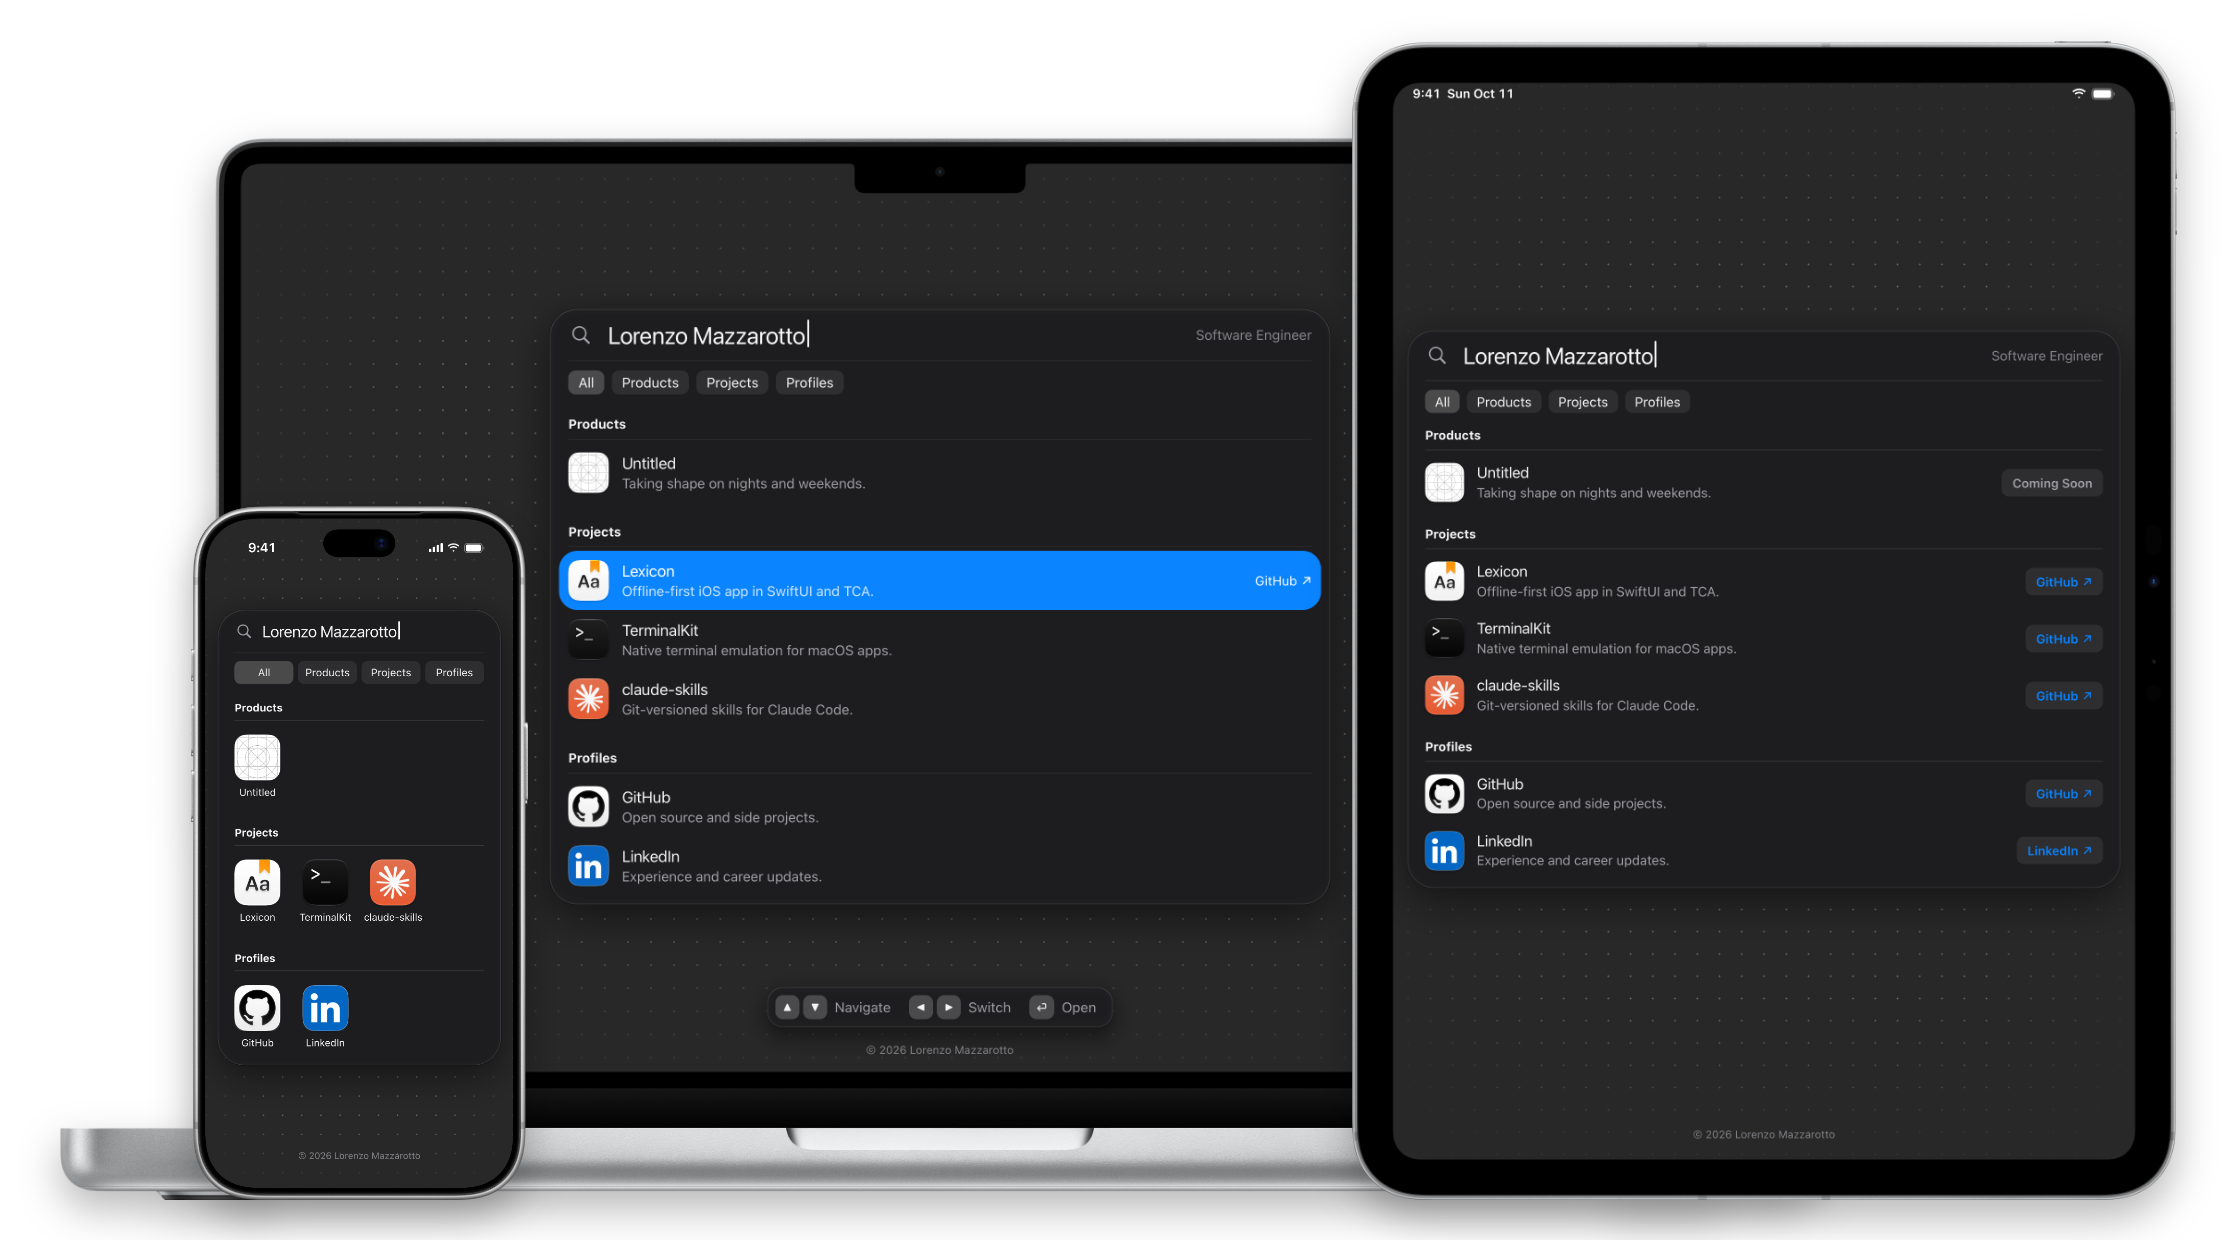
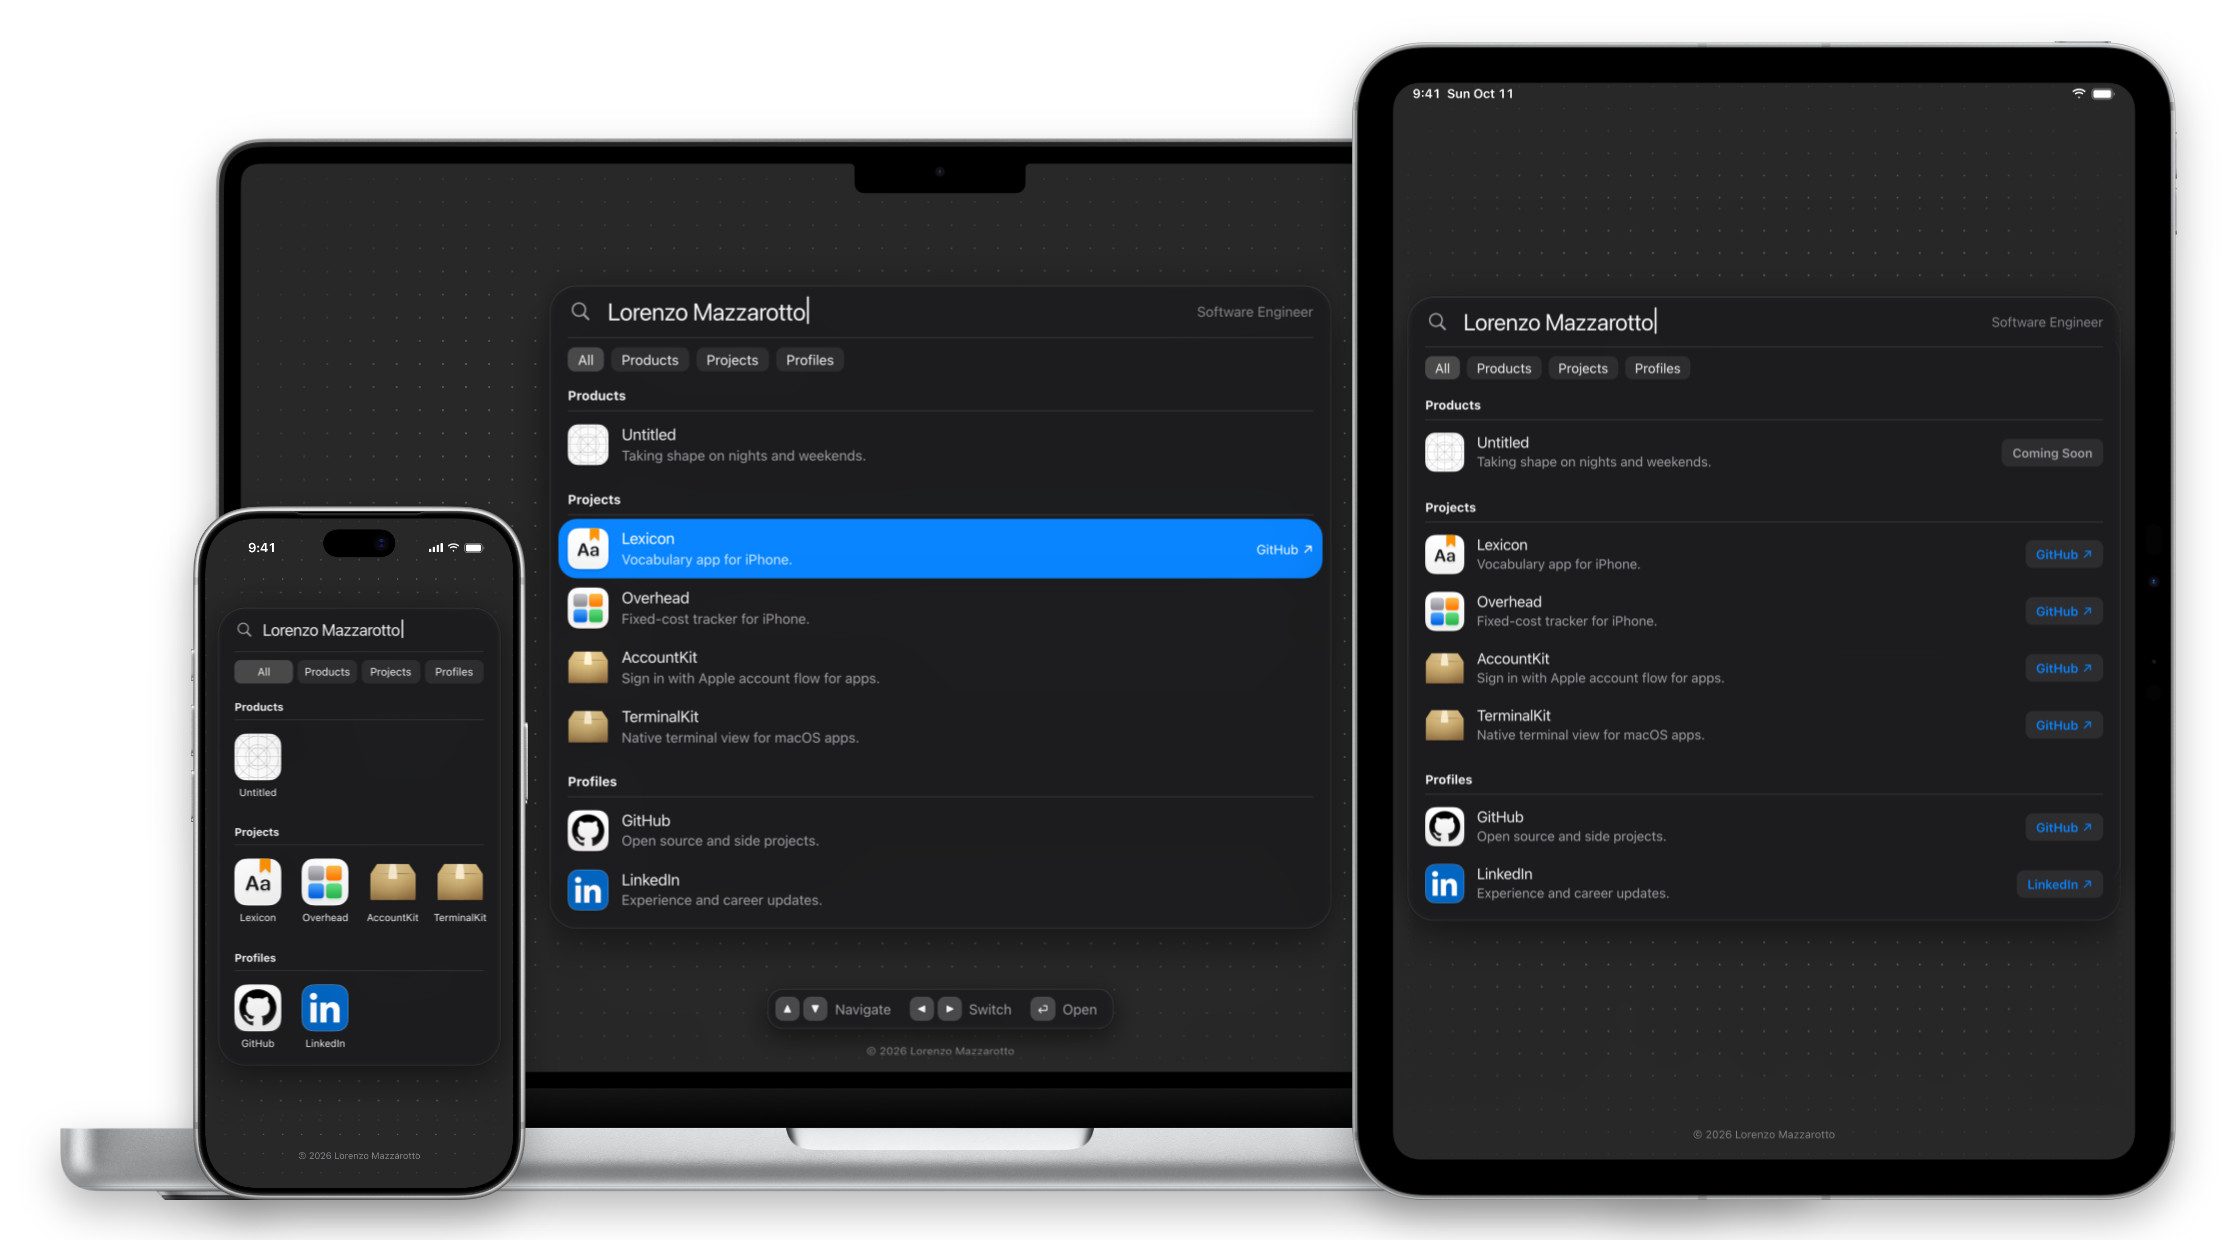
Update the preview and devices images

diff --git a/public/index.html b/public/index.html
@@ -11,7 +11,7 @@
     <meta property="og:url" content="https://mazzsva.com/">
     <meta property="og:title" content="Lorenzo Mazzarotto">
     <meta property="og:description" content="Lorenzo Mazzarotto, software engineer.">
-    <meta property="og:image" content="https://mazzsva.com/assets/preview.png">
+    <meta property="og:image" content="https://mazzsva.com/assets/preview-2026-11-03.png">
     <meta property="og:image:width" content="2400">
     <meta property="og:image:height" content="1260">
     <meta name="twitter:card" content="summary_large_image">
